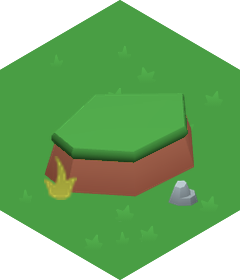
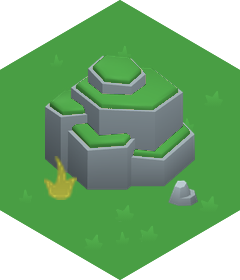
art: les cartes de colline et de roche montrent les nouveaux reliefs
Le commanditaire a demandé de reprendre les hexagones du pack pour la
main du joueur, en cohérence avec ce qui se voit une fois la tuile
posée. Les cartes hill_1/rock_2/rock_3 en tiraient déjà parti, mais
hill_2 montrait une seconde petite colline et rock_1 un simple tas de
blocs du pack de base : aucune des deux ne montrait les monts ajoutés
en journal 106. hill_2 porte maintenant le mont herbeux qui coiffe les
grandes régions de colline, rock_1 le mont de roche nue qui coiffe les
massifs — les modèles étaient déjà rendus, la main du joueur donne
désormais un aperçu fidèle du relief qu'on retrouvera en jeu.

Claude-Session: https://claude.ai/code/session_01XHx1sYnE2rY8XF5VjjnSNn

Changed region(s): [[0.175, 0.2, 0.8167, 0.7143], [0.5542, 0.2, 0.5833, 0.2286]]

diff --git a/tools/build_images.py b/tools/build_images.py
@@ -759,8 +759,9 @@ TILES = {
                                       L("ht:flowerYellow:2.8", 58, 56, "flower", ("spring",)), L("ht:flowerWhite:2.8", 86, 112, "flower", ("spring",))],
                  base_kind="dirt", base_mirror=True, note="Terre en miroir + 2 flaques + 3 roseaux ; fleurs au printemps."),
     # --- roches : pierre + rochers gris (neige sur les sommets en hiver)
-    "rock_1": T("rock", "stone_07", [L("kay:massif_A", 60, 100, "rock", width=150), L("kay:caillou_A", 26, 102, "rock", width=46),
-                                     L("kay:caillou_C", 98, 88, "rock", width=38)], base_kind="stone", note="Massif KayKit (mountain_C) + deux cailloux."),
+    "rock_1": T("rock", "stone_07", [L("kay:mont_A", 60, 96, "rock", width=150), L("kay:caillou_A", 26, 106, "rock", width=46),
+                                     L("kay:caillou_C", 98, 92, "rock", width=38)], base_kind="stone",
+                note="Mont de roche nue du pack EXTRA (mountain_A), le même qui coiffe maintenant les massifs en jeu (journal 106) + deux cailloux."),
     "rock_2": T("rock", "stone_07", [L("kay:massif_B", 48, 94, "rock", width=104), L("kay:massif_C", 86, 104, "rock", width=88),
                                      L("kay:caillou_B", 28, 108, "rock", width=40)], base_kind="stone", note="Deux massifs KayKit + un caillou."),
     "rock_3": T("rock", "stone_07", [L("kay:caillou_A", 38, 76, "rock", width=48), L("kay:caillou_D", 76, 70, "rock", width=44),
@@ -786,8 +787,8 @@ TILES = {
     # --- collines (dès l'île 7) : hillGrass des Hexagon Tiles, recolorée comme l'herbe
     "hill_1": T("hill", "grass_05", [L("kay:colline_A", 60, 82, "hill", width=150), L("ht:bushGrass:2.2", 34, 104, "reed")],
                 note="Colline : herbe plate + colline en volume du pack EXTRA (hill_single_A), sommet recoloré par saison, touffe au pied."),
-    "hill_2": T("hill", "grass_05", [L("kay:colline_B", 60, 82, "hill", width=150, mirror=True), L("kay:caillou_C", 92, 100, "rock", width=30), L("ht:bushGrass:2.2", 30, 100, "reed")],
-                base_mirror=True, note="Colline en miroir + sapin et feuillu KayKit, petit rocher et touffe."),
+    "hill_2": T("hill", "grass_05", [L("kay:mont_A_herbe", 60, 80, "hill", width=150, mirror=True), L("kay:caillou_C", 92, 100, "rock", width=30), L("ht:bushGrass:2.2", 30, 100, "reed")],
+                base_mirror=True, note="Mont herbeux du pack EXTRA (mountain_A_grass), le même qui coiffe les grandes régions en jeu (journal 106), sommet recoloré par saison + rocher et touffe."),
     # --- landes (dès l'île 9) : sol ocre + bruyère (bushGrass recolorées en violet)
     "heath_1": T("heath", "grass_05", [L("ht:bushGrass:2.5", 36, 82, "heather"), L("ht:bushGrass:2.5", 78, 70, "heather"), L("ht:bushGrass:2.5", 60, 108, "heather"),
                                        L("ht:bushGrass:2.3", 94, 104, "heather"), L("kay:caillou_B", 28, 104, "rock", width=40)],

diff --git a/JOURNAL_DE_BORD.md b/JOURNAL_DE_BORD.md
@@ -533,3 +533,4 @@ Le proxy réseau bloque les sites des banques ; les assets sont récupérés dep
 | La feuille de route affirmait « glace en hexagones » sans qu'on l'ait vu | Isoler chaque couche du rendu (une capture par couche désactivée, puis la grille et les sols en surimpression) a montré trois coupables du côté de la terre et aucun du côté de la glace. Une hypothèse écrite dans un document devient un fait pour celui qui la relit : ne consigner que ce qu'une capture a montré |
 | Une apostrophe française dans une chaîne JavaScript à guillemets simples (« qu'on contourne ») a cassé le module de l'histoire, et toutes les captures ont expiré sans message | L'erreur (« Unexpected identifier 'on' ») était dans la console du navigateur, pas dans le journal des captures qui ne montrait qu'un délai dépassé. Dans un texte affiché, écrire l'apostrophe typographique ’, jamais ' ; et quand toutes les captures expirent d'un coup, ouvrir la console avant de chercher ailleurs |
 | 2026-09-22 | 108 | Lead (retours du commanditaire sur les pistes ouvertes : « go pour C et D ») | **Falaises côtières et sommets.** Piste C : une colline qui touche la vraie mer (`board.isSea`, une case hors du masque de l'île — pas un étang ni un lac) montre un amas de rochers au pied du relief, côté eau, en DEÇÀ de l'arête pour ne pas doubler le système des écueils (qui pose déjà des rochers AU LARGE, plus haut dans le fichier). Piste D : la case la plus centrale de chaque région de colline (déjà calculée pour le hameau) porte un repère immobile — un rocher isolé ou un arbre esseulé — pour qu'on la distingue au premier regard du reste de la chaîne ; sautée si la case a déjà sa pièce maîtresse de niveau 3 (le système LANDMARK, pour ne pas doubler deux repères sur la même case | Comptage programmatique des objets posés sur les trois régions de colline côtières de l'île 18 (piste C : 2 à 6 rochers selon le nombre d'arêtes côtières ; piste D : le pin ou le rocher attendu sur la région à une seule case) ; captures visuelles ; suite courte | Les modèles KayKit `colline` (brun) et `collines`/`mont` (gris) n'ont pas la même palette — normal, ce sont deux pièces différentes du pack, pas un bogue de recoloration |
+| 2026-09-22 | 109 | Lead (le commanditaire : « go pour l'offre » — utiliser les hexagones du pack pour les cartes en main) | **Les cartes de colline et de roche montrent les nouveaux reliefs.** Les cartes `hill_1`/`rock_2`/`rock_3` utilisaient déjà des modèles du pack (journal 102) ; mais `hill_2` montrait une seconde petite colline (comme `hill_1`) et `rock_1` un simple tas de blocs (`mountain_C` du pack de base) — aucune des deux ne montrait les monts ajoutés en journal 106. `hill_2` porte maintenant le mont herbeux (`mountain_A_grass`) qui coiffe les grandes régions en jeu, sommet recoloré par saison ; `rock_1` porte le mont de roche nue (`mountain_A`) qui coiffe les massifs. La main du joueur montre désormais toute la gamme de reliefs qu'on retrouve une fois posé | Modèles déjà rendus (journal 102, 106) : pipeline sans nouveau rendu KayKit, quelques secondes ; captures des quatre cartes ; suite courte | — |

diff --git a/FEUILLE_DE_ROUTE.md b/FEUILLE_DE_ROUTE.md
@@ -267,7 +267,7 @@ Tutoriel pour le commanditaire : `docs/FIREBASE_TUTO.pdf`. Règles : `firestore.
 | Champs et landes trop hexagonaux, arêtes trop pointues | Dalle du champ rendue plus large et rognée à l'hexagone (pipeline, `rogne=True`) ; fondus entre sols à **sens unique**, en langues **rondes** (distance au segment, lobes aux sommets, lisière douce) ; les reliefs se fondent aussi ; rangs de culture qui s'effilochent en lisière | fait (journal 93, 95) |
 | Chemins plus naturels | Itinéraires : le plus droit des plus courts, le chemin coupe la case ; ondulation discrète (journal 98). Rubans de terre battue : largeur qui ondule, bords effilochés, bouts effilés, motif de terre découpé dans l'image de sol, cailloux et touffes au bord. Le pointillé doré qui clignotait dans la tournée est retiré | fait (journal 96, 97) |
 | Marques claires sur les champs | Reliefs éclairés de la dalle KayKit (monticules, cubes d'épis) : sol de champ remplacé par une terre unie recolorée par saison, les rangs de culture font le champ | fait (journal 101) |
-| Collines à flancs bruns (« tuiles de falaises ») | Piste A retenue : sol d'herbe plat + collines, chaînes et monts en volume du pack EXTRA posés dessus, sommets recolorés par saison. Les trois monts du pack coiffent les massifs de roche (version roche nue) et se mêlent aux collines (version enherbée) ; une colline côtière montre ses rochers au pied côté mer (piste C), la case centrale de chaque région porte un repère immobile (piste D). Reste la piste E (éboulis des massifs) et l'offre des hexagones de relief pour les cartes en main | fait (journal 102, 104, 106, 108) — piste E et cartes en main à décider |
+| Collines à flancs bruns (« tuiles de falaises ») | Piste A retenue : sol d'herbe plat + collines, chaînes et monts en volume du pack EXTRA posés dessus, sommets recolorés par saison. Les trois monts du pack coiffent les massifs de roche (version roche nue) et se mêlent aux collines (version enherbée) ; une colline côtière montre ses rochers au pied côté mer (piste C), la case centrale de chaque région porte un repère immobile (piste D). Les cartes en main de colline et de roche montrent maintenant les mêmes monts. Reste la piste E (éboulis des massifs) | fait (journal 102, 104, 106, 108, 109) — piste E à décider |
 | Liseré clair des images de sable | Base agrandie de 8 % et rognée à l'hexagone (`base_zoom`) : plus de couture entre deux sables | fait (journal 100) |
 | Arêtes droites d'hiver autour des mares (dites « glace en hexagones ») | Ce n'était pas la glace : berge des cases d'eau sans langue de sol, cache-couture terre/eau, ourlet en trapèze qui débordait de côté. Les trois corrigés | fait (journal 99) |
 | Littoral naturel | Contour global de l'île (arêtes de bord enchaînées en boucles), lissé puis érodé au bruit fBM le long de la normale ; découpe des sols, écume, halo, ombre portée et teinte de climat sur ce seul contour. Les étangs et lacs qui touchent la mer deviennent des anses | fait (journal 85) |
